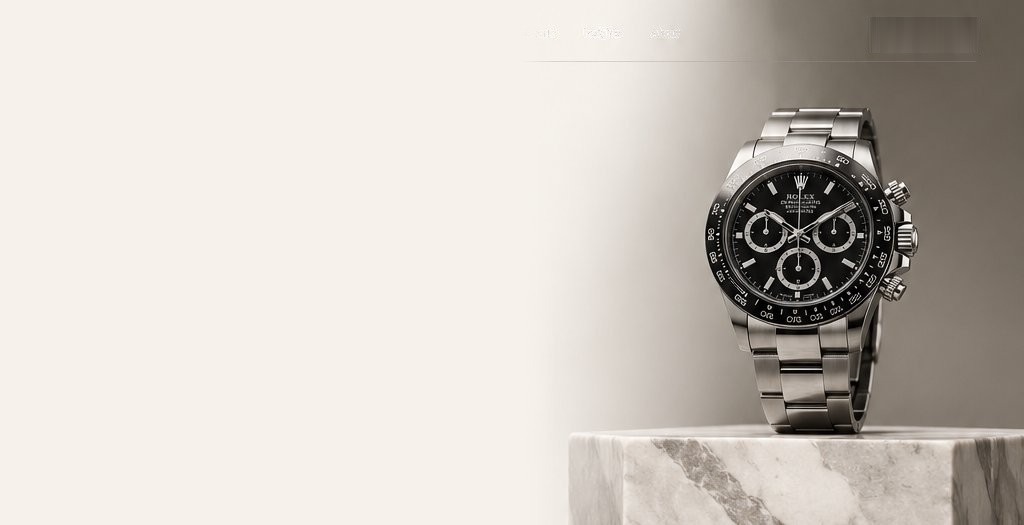
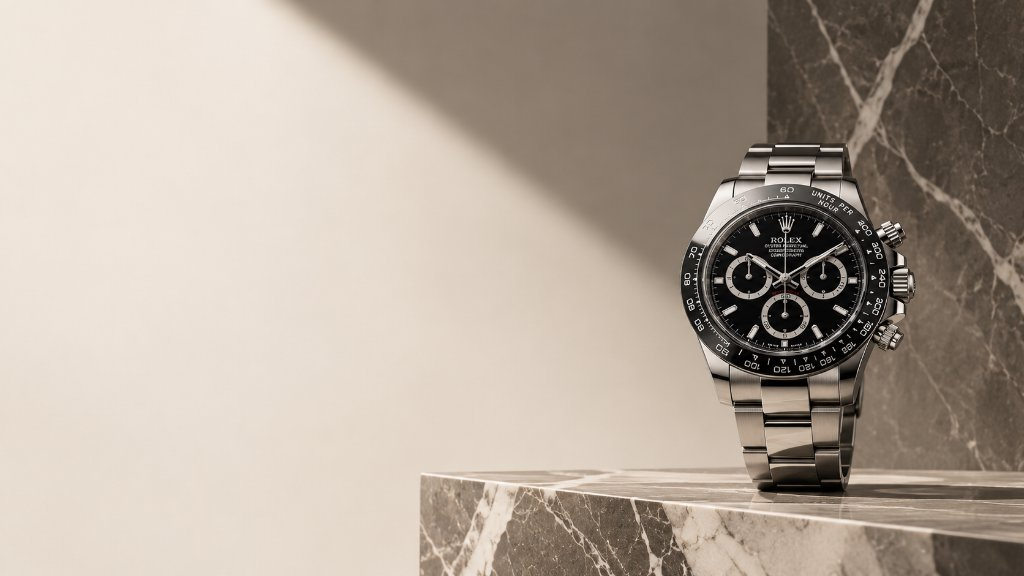
feat: update background image to high-resolution studio photo

diff --git a/styles.css b/styles.css
@@ -4,7 +4,7 @@
    ========================================================================== */
 
 :root {
-  --bg-sand: #F6F1EB;
+  --bg-sand: #EFE5DB;
   --text-primary: #111111;
   --text-secondary: #22201E;
   --text-muted: #66635F;
